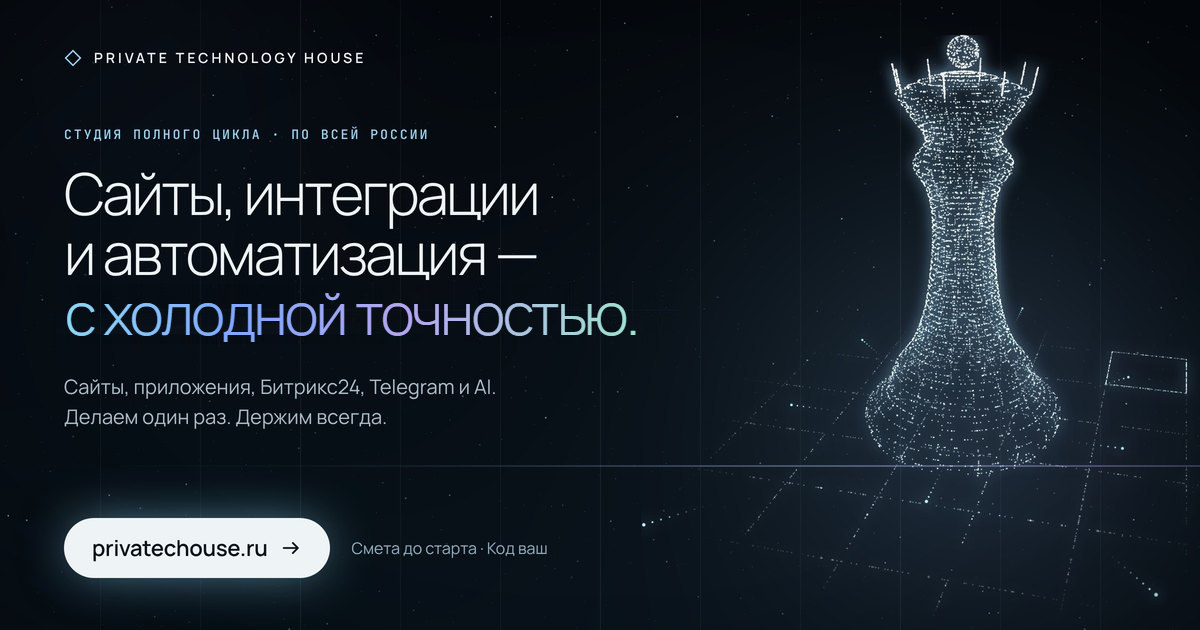
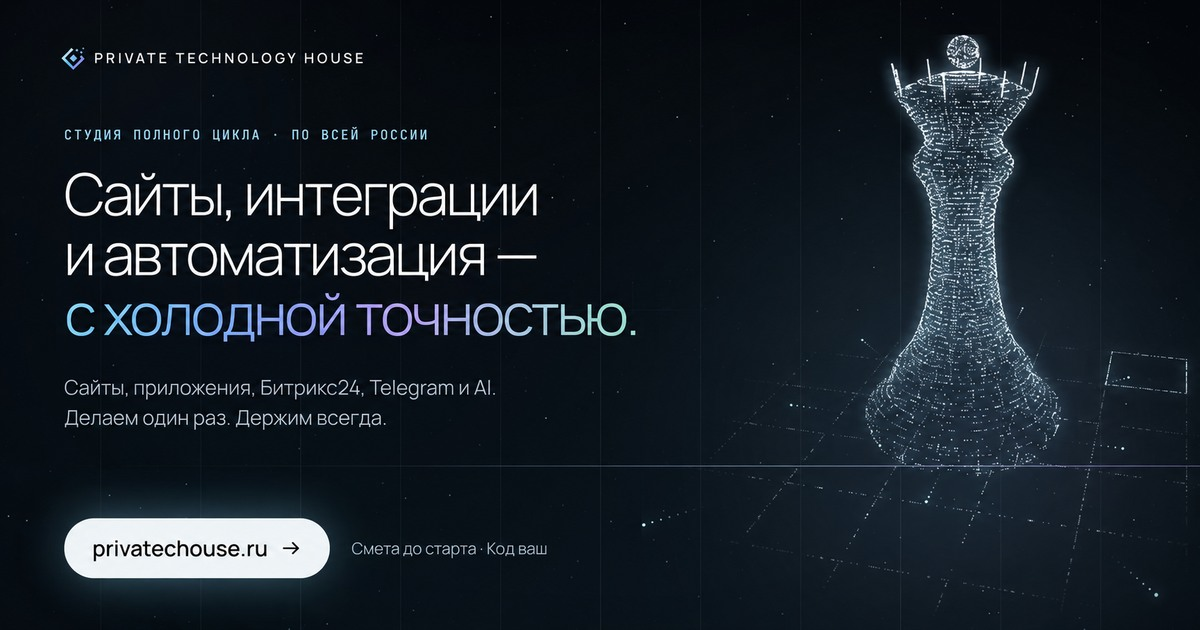
Единый знак студии в шапках и предпросмотре ссылки

diff --git a/services.html b/services.html
@@ -26,7 +26,7 @@
 <meta property="og:image:height" content="630">
 <meta property="og:locale" content="ru_RU">
 <meta name="twitter:card" content="summary_large_image">
-<link rel="stylesheet" href="assets/site.css?v=b2d90921">
+<link rel="stylesheet" href="assets/site.css?v=961dbc32">
 <noscript><style>.pt-boot .sec > *,.pt-boot .sec .wrap > *{opacity:1}.flow-win[role="img"]::after{content:attr(aria-label);position:absolute;inset:56px 28px 28px;display:flex;align-items:center;justify-content:center;text-align:center;font:500 13px/1.7 'JetBrains Mono','JetBrains fb',monospace;color:#8FAEC0}[data-mini-label]{opacity:1;left:50%;top:50%;bottom:auto;transform:translate(-50%,-50%)}.hero-obj::after{content:"[ " attr(aria-label) " ]";position:absolute;left:24px;right:24px;top:45%;text-align:center;font:500 13px/1.7 'JetBrains Mono','JetBrains fb',monospace;color:#8FAEC0}.hero-obj .nb,.hero-obj [data-ring],.hero-obj .ps{display:none!important}[data-faq][hidden]{display:block!important;position:static;visibility:visible;pointer-events:auto}[data-faq] .cp-scrim,[data-faq] .cp-bar,[data-faq] .cp-foot{display:none!important}[data-faq] .cp-sheet{position:static!important;width:auto!important;height:auto!important;max-height:none!important;transform:none!important;background:none!important;border:0!important;border-radius:0!important;box-shadow:none!important}[data-faq] .cp-sheet::before{display:none}[data-faq] .cp-body{overflow:visible!important;max-width:880px;margin:0 auto;padding:0 var(--pad)!important}.faq-link{display:none!important}</style></noscript>
 <script type="application/ld+json">{"@context": "https://schema.org", "@type": "BreadcrumbList", "itemListElement": [{"@type": "ListItem", "position": 1, "name": "Главная", "item": "https://privatechouse.ru/"}, {"@type": "ListItem", "position": 2, "name": "Что делаем", "item": "https://privatechouse.ru/services"}]}</script>
 <script type="application/ld+json">{"@context": "https://schema.org", "@type": "Organization", "@id": "https://privatechouse.ru/#org", "name": "Private Technology House", "url": "https://privatechouse.ru/", "email": "hello@privatechouse.ru", "sameAs": ["https://t.me/dragonborne0"], "areaServed": "RU", "hasOfferCatalog": {"@type": "OfferCatalog", "name": "Услуги", "itemListElement": [{"@type": "Offer", "itemOffered": {"@type": "Service", "name": "Сайты-презентации", "description": "Для компаний, которым важно, как их видят. Свой визуальный стиль, 3D и анимация."}}, {"@type": "Offer", "itemOffered": {"@type": "Service", "name": "Приложения", "description": "Android, iOS и Telegram: от интерфейса до публикации в магазинах. Связываем с сайтом и CRM."}}, {"@type": "Offer", "itemOffered": {"@type": "Service", "name": "Серверы", "description": "Настраиваем серверы компании, ставим бэкапы и мониторинг. Если что-то упало, находим причину и чиним."}}, {"@type": "Offer", "itemOffered": {"@type": "Service", "name": "Сопровождение сайта", "description": "Сайт работает на нашем хостинге. Вы пишете в Telegram, что поменять, мы меняем. Следим, чтобы сайт открывался, и обновляем его."}}, {"@type": "Offer", "itemOffered": {"@type": "Service", "name": "Автоматизация и интеграции", "description": "Связываем всё, где есть API: сайт, приложение, CRM, мессенджеры, маркетплейсы. Сценарии работают на нашем сервере, мы за ними следим."}}, {"@type": "Offer", "itemOffered": {"@type": "Service", "name": "AI-ассистенты", "description": "Агенты отвечают клиентам, ищут по документам компании и разбирают звонки."}}]}}</script>

diff --git a/en/services.html b/en/services.html
@@ -26,7 +26,7 @@
 <meta property="og:image:height" content="630">
 <meta property="og:locale" content="en_US"><meta content="ru_RU" property="og:locale:alternate">
 <meta name="twitter:card" content="summary_large_image">
-<link rel="stylesheet" href="/assets/site.css?v=b2d90921">
+<link rel="stylesheet" href="/assets/site.css?v=961dbc32">
 <noscript><style>.pt-boot .sec > *,.pt-boot .sec .wrap > *{opacity:1}.flow-win[role="img"]::after{content:attr(aria-label);position:absolute;inset:56px 28px 28px;display:flex;align-items:center;justify-content:center;text-align:center;font:500 13px/1.7 'JetBrains Mono','JetBrains fb',monospace;color:#8FAEC0}[data-mini-label]{opacity:1;left:50%;top:50%;bottom:auto;transform:translate(-50%,-50%)}.hero-obj::after{content:"[ " attr(aria-label) " ]";position:absolute;left:24px;right:24px;top:45%;text-align:center;font:500 13px/1.7 'JetBrains Mono','JetBrains fb',monospace;color:#8FAEC0}.hero-obj .nb,.hero-obj [data-ring],.hero-obj .ps{display:none!important}[data-faq][hidden]{display:block!important;position:static;visibility:visible;pointer-events:auto}[data-faq] .cp-scrim,[data-faq] .cp-bar,[data-faq] .cp-foot{display:none!important}[data-faq] .cp-sheet{position:static!important;width:auto!important;height:auto!important;max-height:none!important;transform:none!important;background:none!important;border:0!important;border-radius:0!important;box-shadow:none!important}[data-faq] .cp-sheet::before{display:none}[data-faq] .cp-body{overflow:visible!important;max-width:880px;margin:0 auto;padding:0 var(--pad)!important}.faq-link{display:none!important}</style></noscript>
 <script type="application/ld+json">{"@context":"https://schema.org","@type":"BreadcrumbList","itemListElement":[{"@type":"ListItem","position":1,"name":"Home","item":"https://privatechouse.ru/en/"},{"@type":"ListItem","position":2,"name":"What we do","item":"https://privatechouse.ru/en/services"}]}</script>
 <script type="application/ld+json">{"@context":"https://schema.org","@type":"Organization","@id":"https://privatechouse.ru/#org","name":"Private Technology House","url":"https://privatechouse.ru/","email":"hello@privatechouse.ru","sameAs":["https://t.me/dragonborne0"],"areaServed":"RU","hasOfferCatalog":{"@type":"OfferCatalog","name":"Services","itemListElement":[{"@type":"Offer","itemOffered":{"@type":"Service","name":"Presentation websites","description":"For companies that care how they are seen. Your own visual style, 3D and animation."}},{"@type":"Offer","itemOffered":{"@type":"Service","name":"Apps","description":"Android, iOS and Telegram: from interface to store publishing. We connect the app to your website and CRM."}},{"@type":"Offer","itemOffered":{"@type":"Service","name":"Servers","description":"We set up company servers, backups and monitoring. If something goes down, we find the cause and fix it."}},{"@type":"Offer","itemOffered":{"@type":"Service","name":"Website care","description":"The site runs on our hosting. You tell us in Telegram what to change, and we change it. We keep the site up and updated."}},{"@type":"Offer","itemOffered":{"@type":"Service","name":"Automation and integrations","description":"We connect anything with an API: website, app, CRM, messengers, marketplaces. The workflows run on our server, and we look after them."}},{"@type":"Offer","itemOffered":{"@type":"Service","name":"AI assistants","description":"Agents answer customers, search company documents and review calls."}}]}}</script>

diff --git a/care.html b/care.html
@@ -26,7 +26,7 @@
 <meta property="og:image:height" content="630">
 <meta property="og:locale" content="ru_RU">
 <meta name="twitter:card" content="summary_large_image">
-<link rel="stylesheet" href="assets/site.css?v=b2d90921">
+<link rel="stylesheet" href="assets/site.css?v=961dbc32">
 <noscript><style>.pt-boot .sec > *,.pt-boot .sec .wrap > *{opacity:1}.flow-win[role="img"]::after{content:attr(aria-label);position:absolute;inset:56px 28px 28px;display:flex;align-items:center;justify-content:center;text-align:center;font:500 13px/1.7 'JetBrains Mono','JetBrains fb',monospace;color:#8FAEC0}[data-mini-label]{opacity:1;left:50%;top:50%;bottom:auto;transform:translate(-50%,-50%)}.hero-obj::after{content:"[ " attr(aria-label) " ]";position:absolute;left:24px;right:24px;top:45%;text-align:center;font:500 13px/1.7 'JetBrains Mono','JetBrains fb',monospace;color:#8FAEC0}.hero-obj .nb,.hero-obj [data-ring],.hero-obj .ps{display:none!important}[data-faq][hidden]{display:block!important;position:static;visibility:visible;pointer-events:auto}[data-faq] .cp-scrim,[data-faq] .cp-bar,[data-faq] .cp-foot{display:none!important}[data-faq] .cp-sheet{position:static!important;width:auto!important;height:auto!important;max-height:none!important;transform:none!important;background:none!important;border:0!important;border-radius:0!important;box-shadow:none!important}[data-faq] .cp-sheet::before{display:none}[data-faq] .cp-body{overflow:visible!important;max-width:880px;margin:0 auto;padding:0 var(--pad)!important}.faq-link{display:none!important}</style></noscript>
 <script type="application/ld+json">{"@context": "https://schema.org", "@type": "BreadcrumbList", "itemListElement": [{"@type": "ListItem", "position": 1, "name": "Главная", "item": "https://privatechouse.ru/"}, {"@type": "ListItem", "position": 2, "name": "Что делаем", "item": "https://privatechouse.ru/services"}, {"@type": "ListItem", "position": 3, "name": "Сопровождение сайта", "item": "https://privatechouse.ru/care"}]}</script>
 <script type="application/ld+json">{"@context": "https://schema.org", "@type": "Service", "name": "Сопровождение сайта", "description": "Сайт на нашем хостинге, российские проекты — на серверах в России. SSL и домен, мониторинг, бэкапы, правки по сообщению в Telegram, 152-ФЗ. Фиксированный платёж, от 10 000 ₽ в месяц.", "url": "https://privatechouse.ru/care", "provider": {"@id": "https://privatechouse.ru/#org"}, "areaServed": "RU", "offers": {"@type": "Offer", "priceCurrency": "RUB", "priceSpecification": {"@type": "UnitPriceSpecification", "minPrice": 10000, "priceCurrency": "RUB", "unitCode": "MON", "unitText": "месяц"}}}</script>

diff --git a/bitrix24.html b/bitrix24.html
@@ -26,7 +26,7 @@
 <meta property="og:image:height" content="630">
 <meta property="og:locale" content="ru_RU">
 <meta name="twitter:card" content="summary_large_image">
-<link rel="stylesheet" href="assets/site.css?v=b2d90921">
+<link rel="stylesheet" href="assets/site.css?v=961dbc32">
 <noscript><style>.pt-boot .sec > *,.pt-boot .sec .wrap > *{opacity:1}.flow-win[role="img"]::after{content:attr(aria-label);position:absolute;inset:56px 28px 28px;display:flex;align-items:center;justify-content:center;text-align:center;font:500 13px/1.7 'JetBrains Mono','JetBrains fb',monospace;color:#8FAEC0}[data-mini-label]{opacity:1;left:50%;top:50%;bottom:auto;transform:translate(-50%,-50%)}.hero-obj::after{content:"[ " attr(aria-label) " ]";position:absolute;left:24px;right:24px;top:45%;text-align:center;font:500 13px/1.7 'JetBrains Mono','JetBrains fb',monospace;color:#8FAEC0}.hero-obj .nb,.hero-obj [data-ring],.hero-obj .ps{display:none!important}[data-faq][hidden]{display:block!important;position:static;visibility:visible;pointer-events:auto}[data-faq] .cp-scrim,[data-faq] .cp-bar,[data-faq] .cp-foot{display:none!important}[data-faq] .cp-sheet{position:static!important;width:auto!important;height:auto!important;max-height:none!important;transform:none!important;background:none!important;border:0!important;border-radius:0!important;box-shadow:none!important}[data-faq] .cp-sheet::before{display:none}[data-faq] .cp-body{overflow:visible!important;max-width:880px;margin:0 auto;padding:0 var(--pad)!important}.faq-link{display:none!important}</style></noscript>
 <script type="application/ld+json">{"@context": "https://schema.org", "@type": "BreadcrumbList", "itemListElement": [{"@type": "ListItem", "position": 1, "name": "Главная", "item": "https://privatechouse.ru/"}, {"@type": "ListItem", "position": 2, "name": "Что делаем", "item": "https://privatechouse.ru/services"}, {"@type": "ListItem", "position": 3, "name": "Интеграции", "item": "https://privatechouse.ru/bitrix24"}]}</script>
 <script type="application/ld+json">{"@context": "https://schema.org", "@type": "Service", "name": "Интеграции с Битрикс24", "description": "Заявки с сайта и из Telegram — сразу в Битрикс24, задачи голосом, утренний разбор задач с выводами, разбор каждого звонка в карточке клиента. Настраиваем под ваш процесс, от 5 000 ₽ в месяц.", "url": "https://privatechouse.ru/bitrix24", "provider": {"@id": "https://privatechouse.ru/#org"}, "areaServed": "RU", "offers": {"@type": "Offer", "priceCurrency": "RUB", "priceSpecification": {"@type": "UnitPriceSpecification", "minPrice": 5000, "priceCurrency": "RUB", "unitCode": "MON"}}}</script>

diff --git a/sites.html b/sites.html
@@ -26,7 +26,7 @@
 <meta property="og:image:height" content="630">
 <meta property="og:locale" content="ru_RU">
 <meta name="twitter:card" content="summary_large_image">
-<link rel="stylesheet" href="assets/site.css?v=b2d90921">
+<link rel="stylesheet" href="assets/site.css?v=961dbc32">
 <noscript><style>.pt-boot .sec > *,.pt-boot .sec .wrap > *{opacity:1}.flow-win[role="img"]::after{content:attr(aria-label);position:absolute;inset:56px 28px 28px;display:flex;align-items:center;justify-content:center;text-align:center;font:500 13px/1.7 'JetBrains Mono','JetBrains fb',monospace;color:#8FAEC0}[data-mini-label]{opacity:1;left:50%;top:50%;bottom:auto;transform:translate(-50%,-50%)}.hero-obj::after{content:"[ " attr(aria-label) " ]";position:absolute;left:24px;right:24px;top:45%;text-align:center;font:500 13px/1.7 'JetBrains Mono','JetBrains fb',monospace;color:#8FAEC0}.hero-obj .nb,.hero-obj [data-ring],.hero-obj .ps{display:none!important}[data-faq][hidden]{display:block!important;position:static;visibility:visible;pointer-events:auto}[data-faq] .cp-scrim,[data-faq] .cp-bar,[data-faq] .cp-foot{display:none!important}[data-faq] .cp-sheet{position:static!important;width:auto!important;height:auto!important;max-height:none!important;transform:none!important;background:none!important;border:0!important;border-radius:0!important;box-shadow:none!important}[data-faq] .cp-sheet::before{display:none}[data-faq] .cp-body{overflow:visible!important;max-width:880px;margin:0 auto;padding:0 var(--pad)!important}.faq-link{display:none!important}</style></noscript>
 <script type="application/ld+json">{"@context": "https://schema.org", "@type": "BreadcrumbList", "itemListElement": [{"@type": "ListItem", "position": 1, "name": "Главная", "item": "https://privatechouse.ru/"}, {"@type": "ListItem", "position": 2, "name": "Что делаем", "item": "https://privatechouse.ru/services"}, {"@type": "ListItem", "position": 3, "name": "Сайты-презентации", "item": "https://privatechouse.ru/sites"}]}</script>
 <script type="application/ld+json">{"@context": "https://schema.org", "@type": "Service", "name": "Сайт-презентация", "description": "Сайт-презентация со своим визуальным стилем, 3D и анимацией: для бренда, жилого комплекса, коттеджного посёлка, отеля или нового продукта. От 120 000 ₽, от 2 недель. Редизайн — от 85 000 ₽.", "url": "https://privatechouse.ru/sites", "provider": {"@id": "https://privatechouse.ru/#org"}, "areaServed": "RU", "offers": {"@type": "Offer", "priceCurrency": "RUB", "priceSpecification": {"@type": "PriceSpecification", "minPrice": 120000, "priceCurrency": "RUB"}}}</script>

diff --git a/apps.html b/apps.html
@@ -26,7 +26,7 @@
 <meta property="og:image:height" content="630">
 <meta property="og:locale" content="ru_RU">
 <meta name="twitter:card" content="summary_large_image">
-<link rel="stylesheet" href="assets/site.css?v=b2d90921">
+<link rel="stylesheet" href="assets/site.css?v=961dbc32">
 <noscript><style>.pt-boot .sec > *,.pt-boot .sec .wrap > *{opacity:1}.flow-win[role="img"]::after{content:attr(aria-label);position:absolute;inset:56px 28px 28px;display:flex;align-items:center;justify-content:center;text-align:center;font:500 13px/1.7 'JetBrains Mono','JetBrains fb',monospace;color:#8FAEC0}[data-mini-label]{opacity:1;left:50%;top:50%;bottom:auto;transform:translate(-50%,-50%)}.hero-obj::after{content:"[ " attr(aria-label) " ]";position:absolute;left:24px;right:24px;top:45%;text-align:center;font:500 13px/1.7 'JetBrains Mono','JetBrains fb',monospace;color:#8FAEC0}.hero-obj .nb,.hero-obj [data-ring],.hero-obj .ps{display:none!important}[data-faq][hidden]{display:block!important;position:static;visibility:visible;pointer-events:auto}[data-faq] .cp-scrim,[data-faq] .cp-bar,[data-faq] .cp-foot{display:none!important}[data-faq] .cp-sheet{position:static!important;width:auto!important;height:auto!important;max-height:none!important;transform:none!important;background:none!important;border:0!important;border-radius:0!important;box-shadow:none!important}[data-faq] .cp-sheet::before{display:none}[data-faq] .cp-body{overflow:visible!important;max-width:880px;margin:0 auto;padding:0 var(--pad)!important}.faq-link{display:none!important}</style></noscript>
 <script type="application/ld+json">{"@context": "https://schema.org", "@type": "BreadcrumbList", "itemListElement": [{"@type": "ListItem", "position": 1, "name": "Главная", "item": "https://privatechouse.ru/"}, {"@type": "ListItem", "position": 2, "name": "Что делаем", "item": "https://privatechouse.ru/services"}, {"@type": "ListItem", "position": 3, "name": "Приложения", "item": "https://privatechouse.ru/apps"}]}</script>
 <script type="application/ld+json">{"@context": "https://schema.org", "@type": "Service", "name": "Разработка мобильных приложений и Telegram Mini App", "description": "Мобильное приложение для Android и iOS из одной кодовой базы, Telegram Mini App для каталога, записи и заказов. Публикация в Google Play, RuStore и App Store, связь с Битрикс24. От 150 000 ₽.", "url": "https://privatechouse.ru/apps", "provider": {"@id": "https://privatechouse.ru/#org"}, "areaServed": "RU", "offers": {"@type": "Offer", "priceCurrency": "RUB", "priceSpecification": {"@type": "PriceSpecification", "minPrice": 150000, "priceCurrency": "RUB"}}}</script>

diff --git a/ai.html b/ai.html
@@ -26,7 +26,7 @@
 <meta property="og:image:height" content="630">
 <meta property="og:locale" content="ru_RU">
 <meta name="twitter:card" content="summary_large_image">
-<link rel="stylesheet" href="assets/site.css?v=b2d90921">
+<link rel="stylesheet" href="assets/site.css?v=961dbc32">
 <noscript><style>.pt-boot .sec > *,.pt-boot .sec .wrap > *{opacity:1}.flow-win[role="img"]::after{content:attr(aria-label);position:absolute;inset:56px 28px 28px;display:flex;align-items:center;justify-content:center;text-align:center;font:500 13px/1.7 'JetBrains Mono','JetBrains fb',monospace;color:#8FAEC0}[data-mini-label]{opacity:1;left:50%;top:50%;bottom:auto;transform:translate(-50%,-50%)}.hero-obj::after{content:"[ " attr(aria-label) " ]";position:absolute;left:24px;right:24px;top:45%;text-align:center;font:500 13px/1.7 'JetBrains Mono','JetBrains fb',monospace;color:#8FAEC0}.hero-obj .nb,.hero-obj [data-ring],.hero-obj .ps{display:none!important}[data-faq][hidden]{display:block!important;position:static;visibility:visible;pointer-events:auto}[data-faq] .cp-scrim,[data-faq] .cp-bar,[data-faq] .cp-foot{display:none!important}[data-faq] .cp-sheet{position:static!important;width:auto!important;height:auto!important;max-height:none!important;transform:none!important;background:none!important;border:0!important;border-radius:0!important;box-shadow:none!important}[data-faq] .cp-sheet::before{display:none}[data-faq] .cp-body{overflow:visible!important;max-width:880px;margin:0 auto;padding:0 var(--pad)!important}.faq-link{display:none!important}</style></noscript>
 <script type="application/ld+json">{"@context": "https://schema.org", "@type": "BreadcrumbList", "itemListElement": [{"@type": "ListItem", "position": 1, "name": "Главная", "item": "https://privatechouse.ru/"}, {"@type": "ListItem", "position": 2, "name": "Что делаем", "item": "https://privatechouse.ru/services"}, {"@type": "ListItem", "position": 3, "name": "AI-ассистенты", "item": "https://privatechouse.ru/ai"}]}</script>
 <script type="application/ld+json">{"@context": "https://schema.org", "@type": "Service", "name": "AI-ассистенты", "description": "AI-помощник для каждого отдела, который отвечает по вашим регламентам и прайсам. Разбор каждого звонка, ответы покупателям на Авито, ответы на отзывы Wildberries и Ozon. От 5 000 ₽ в месяц.", "url": "https://privatechouse.ru/ai", "provider": {"@id": "https://privatechouse.ru/#org"}, "areaServed": "RU", "offers": {"@type": "Offer", "priceCurrency": "RUB", "priceSpecification": {"@type": "UnitPriceSpecification", "minPrice": 5000, "priceCurrency": "RUB", "unitCode": "MON"}}}</script>

diff --git a/servers.html b/servers.html
@@ -26,7 +26,7 @@
 <meta property="og:image:height" content="630">
 <meta property="og:locale" content="ru_RU">
 <meta name="twitter:card" content="summary_large_image">
-<link rel="stylesheet" href="assets/site.css?v=b2d90921">
+<link rel="stylesheet" href="assets/site.css?v=961dbc32">
 <noscript><style>.pt-boot .sec > *,.pt-boot .sec .wrap > *{opacity:1}.flow-win[role="img"]::after{content:attr(aria-label);position:absolute;inset:56px 28px 28px;display:flex;align-items:center;justify-content:center;text-align:center;font:500 13px/1.7 'JetBrains Mono','JetBrains fb',monospace;color:#8FAEC0}[data-mini-label]{opacity:1;left:50%;top:50%;bottom:auto;transform:translate(-50%,-50%)}.hero-obj::after{content:"[ " attr(aria-label) " ]";position:absolute;left:24px;right:24px;top:45%;text-align:center;font:500 13px/1.7 'JetBrains Mono','JetBrains fb',monospace;color:#8FAEC0}.hero-obj .nb,.hero-obj [data-ring],.hero-obj .ps{display:none!important}[data-faq][hidden]{display:block!important;position:static;visibility:visible;pointer-events:auto}[data-faq] .cp-scrim,[data-faq] .cp-bar,[data-faq] .cp-foot{display:none!important}[data-faq] .cp-sheet{position:static!important;width:auto!important;height:auto!important;max-height:none!important;transform:none!important;background:none!important;border:0!important;border-radius:0!important;box-shadow:none!important}[data-faq] .cp-sheet::before{display:none}[data-faq] .cp-body{overflow:visible!important;max-width:880px;margin:0 auto;padding:0 var(--pad)!important}.faq-link{display:none!important}</style></noscript>
 <script type="application/ld+json">{"@context": "https://schema.org", "@type": "BreadcrumbList", "itemListElement": [{"@type": "ListItem", "position": 1, "name": "Главная", "item": "https://privatechouse.ru/"}, {"@type": "ListItem", "position": 2, "name": "Что делаем", "item": "https://privatechouse.ru/services"}, {"@type": "ListItem", "position": 3, "name": "Серверы", "item": "https://privatechouse.ru/servers"}]}</script>
 <script type="application/ld+json">{"@context": "https://schema.org", "@type": "Service", "name": "Настройка серверов, n8n и LibreChat", "description": "Сервер под ключ: Docker, домены и SSL, бэкапы и мониторинг, переезд без потери данных, разбор аварий, защита и ускорение. n8n или LibreChat под ключ — от 15 000 ₽. Задачи — от 5 000 ₽.", "url": "https://privatechouse.ru/servers", "provider": {"@id": "https://privatechouse.ru/#org"}, "areaServed": "RU", "offers": {"@type": "Offer", "priceCurrency": "RUB", "priceSpecification": {"@type": "PriceSpecification", "minPrice": 5000, "priceCurrency": "RUB"}}}</script>

diff --git a/en/bitrix24.html b/en/bitrix24.html
@@ -26,7 +26,7 @@
 <meta property="og:image:height" content="630">
 <meta property="og:locale" content="en_US"><meta content="ru_RU" property="og:locale:alternate">
 <meta name="twitter:card" content="summary_large_image">
-<link rel="stylesheet" href="/assets/site.css?v=b2d90921">
+<link rel="stylesheet" href="/assets/site.css?v=961dbc32">
 <noscript><style>.pt-boot .sec > *,.pt-boot .sec .wrap > *{opacity:1}.flow-win[role="img"]::after{content:attr(aria-label);position:absolute;inset:56px 28px 28px;display:flex;align-items:center;justify-content:center;text-align:center;font:500 13px/1.7 'JetBrains Mono','JetBrains fb',monospace;color:#8FAEC0}[data-mini-label]{opacity:1;left:50%;top:50%;bottom:auto;transform:translate(-50%,-50%)}.hero-obj::after{content:"[ " attr(aria-label) " ]";position:absolute;left:24px;right:24px;top:45%;text-align:center;font:500 13px/1.7 'JetBrains Mono','JetBrains fb',monospace;color:#8FAEC0}.hero-obj .nb,.hero-obj [data-ring],.hero-obj .ps{display:none!important}[data-faq][hidden]{display:block!important;position:static;visibility:visible;pointer-events:auto}[data-faq] .cp-scrim,[data-faq] .cp-bar,[data-faq] .cp-foot{display:none!important}[data-faq] .cp-sheet{position:static!important;width:auto!important;height:auto!important;max-height:none!important;transform:none!important;background:none!important;border:0!important;border-radius:0!important;box-shadow:none!important}[data-faq] .cp-sheet::before{display:none}[data-faq] .cp-body{overflow:visible!important;max-width:880px;margin:0 auto;padding:0 var(--pad)!important}.faq-link{display:none!important}</style></noscript>
 <script type="application/ld+json">{"@context":"https://schema.org","@type":"BreadcrumbList","itemListElement":[{"@type":"ListItem","position":1,"name":"Home","item":"https://privatechouse.ru/en/"},{"@type":"ListItem","position":2,"name":"What we do","item":"https://privatechouse.ru/en/services"},{"@type":"ListItem","position":3,"name":"Integrations","item":"https://privatechouse.ru/en/bitrix24"}]}</script>
 <script type="application/ld+json">{"@context":"https://schema.org","@type":"Service","name":"Bitrix24 integrations","description":"Leads from your website and Telegram go straight into Bitrix24, tasks by voice, a morning task review with conclusions, a review of every call in the client card. Set up for your process, from 5,000 ₽ a month.","url":"https://privatechouse.ru/en/bitrix24","provider":{"@id":"https://privatechouse.ru/#org"},"areaServed":"RU","offers":{"@type":"Offer","priceCurrency":"RUB","priceSpecification":{"@type":"UnitPriceSpecification","minPrice":5000,"priceCurrency":"RUB","unitCode":"MON"}}}</script>

diff --git a/en/care.html b/en/care.html
@@ -26,7 +26,7 @@
 <meta property="og:image:height" content="630">
 <meta property="og:locale" content="en_US"><meta content="ru_RU" property="og:locale:alternate">
 <meta name="twitter:card" content="summary_large_image">
-<link rel="stylesheet" href="/assets/site.css?v=b2d90921">
+<link rel="stylesheet" href="/assets/site.css?v=961dbc32">
 <noscript><style>.pt-boot .sec > *,.pt-boot .sec .wrap > *{opacity:1}.flow-win[role="img"]::after{content:attr(aria-label);position:absolute;inset:56px 28px 28px;display:flex;align-items:center;justify-content:center;text-align:center;font:500 13px/1.7 'JetBrains Mono','JetBrains fb',monospace;color:#8FAEC0}[data-mini-label]{opacity:1;left:50%;top:50%;bottom:auto;transform:translate(-50%,-50%)}.hero-obj::after{content:"[ " attr(aria-label) " ]";position:absolute;left:24px;right:24px;top:45%;text-align:center;font:500 13px/1.7 'JetBrains Mono','JetBrains fb',monospace;color:#8FAEC0}.hero-obj .nb,.hero-obj [data-ring],.hero-obj .ps{display:none!important}[data-faq][hidden]{display:block!important;position:static;visibility:visible;pointer-events:auto}[data-faq] .cp-scrim,[data-faq] .cp-bar,[data-faq] .cp-foot{display:none!important}[data-faq] .cp-sheet{position:static!important;width:auto!important;height:auto!important;max-height:none!important;transform:none!important;background:none!important;border:0!important;border-radius:0!important;box-shadow:none!important}[data-faq] .cp-sheet::before{display:none}[data-faq] .cp-body{overflow:visible!important;max-width:880px;margin:0 auto;padding:0 var(--pad)!important}.faq-link{display:none!important}</style></noscript>
 <script type="application/ld+json">{"@context":"https://schema.org","@type":"BreadcrumbList","itemListElement":[{"@type":"ListItem","position":1,"name":"Home","item":"https://privatechouse.ru/en/"},{"@type":"ListItem","position":2,"name":"What we do","item":"https://privatechouse.ru/en/services"},{"@type":"ListItem","position":3,"name":"Website care","item":"https://privatechouse.ru/en/care"}]}</script>
 <script type="application/ld+json">{"@context":"https://schema.org","@type":"Service","name":"Website care","description":"Your website on our hosting, Russian projects on servers in Russia. SSL and domain, monitoring, backups, edits on request in Telegram, Federal Law 152-FZ. A fixed payment, from 10,000 ₽ a month.","url":"https://privatechouse.ru/en/care","provider":{"@id":"https://privatechouse.ru/#org"},"areaServed":"RU","offers":{"@type":"Offer","priceCurrency":"RUB","priceSpecification":{"@type":"UnitPriceSpecification","minPrice":10000,"priceCurrency":"RUB","unitCode":"MON","unitText":"month"}}}</script>

diff --git a/en/apps.html b/en/apps.html
@@ -26,7 +26,7 @@
 <meta property="og:image:height" content="630">
 <meta property="og:locale" content="en_US"><meta content="ru_RU" property="og:locale:alternate">
 <meta name="twitter:card" content="summary_large_image">
-<link rel="stylesheet" href="/assets/site.css?v=b2d90921">
+<link rel="stylesheet" href="/assets/site.css?v=961dbc32">
 <noscript><style>.pt-boot .sec > *,.pt-boot .sec .wrap > *{opacity:1}.flow-win[role="img"]::after{content:attr(aria-label);position:absolute;inset:56px 28px 28px;display:flex;align-items:center;justify-content:center;text-align:center;font:500 13px/1.7 'JetBrains Mono','JetBrains fb',monospace;color:#8FAEC0}[data-mini-label]{opacity:1;left:50%;top:50%;bottom:auto;transform:translate(-50%,-50%)}.hero-obj::after{content:"[ " attr(aria-label) " ]";position:absolute;left:24px;right:24px;top:45%;text-align:center;font:500 13px/1.7 'JetBrains Mono','JetBrains fb',monospace;color:#8FAEC0}.hero-obj .nb,.hero-obj [data-ring],.hero-obj .ps{display:none!important}[data-faq][hidden]{display:block!important;position:static;visibility:visible;pointer-events:auto}[data-faq] .cp-scrim,[data-faq] .cp-bar,[data-faq] .cp-foot{display:none!important}[data-faq] .cp-sheet{position:static!important;width:auto!important;height:auto!important;max-height:none!important;transform:none!important;background:none!important;border:0!important;border-radius:0!important;box-shadow:none!important}[data-faq] .cp-sheet::before{display:none}[data-faq] .cp-body{overflow:visible!important;max-width:880px;margin:0 auto;padding:0 var(--pad)!important}.faq-link{display:none!important}</style></noscript>
 <script type="application/ld+json">{"@context":"https://schema.org","@type":"BreadcrumbList","itemListElement":[{"@type":"ListItem","position":1,"name":"Home","item":"https://privatechouse.ru/en/"},{"@type":"ListItem","position":2,"name":"What we do","item":"https://privatechouse.ru/en/services"},{"@type":"ListItem","position":3,"name":"Apps","item":"https://privatechouse.ru/en/apps"}]}</script>
 <script type="application/ld+json">{"@context":"https://schema.org","@type":"Service","name":"Mobile app and Telegram Mini App development","description":"A mobile app for Android and iOS from a single codebase, a Telegram Mini App for catalogs, bookings and orders. Publishing to Google Play, RuStore and the App Store, connection with Bitrix24. From 150,000 ₽.","url":"https://privatechouse.ru/en/apps","provider":{"@id":"https://privatechouse.ru/#org"},"areaServed":"RU","offers":{"@type":"Offer","priceCurrency":"RUB","priceSpecification":{"@type":"PriceSpecification","minPrice":150000,"priceCurrency":"RUB"}}}</script>

diff --git a/en/ai.html b/en/ai.html
@@ -26,7 +26,7 @@
 <meta property="og:image:height" content="630">
 <meta property="og:locale" content="en_US"><meta content="ru_RU" property="og:locale:alternate">
 <meta name="twitter:card" content="summary_large_image">
-<link rel="stylesheet" href="/assets/site.css?v=b2d90921">
+<link rel="stylesheet" href="/assets/site.css?v=961dbc32">
 <noscript><style>.pt-boot .sec > *,.pt-boot .sec .wrap > *{opacity:1}.flow-win[role="img"]::after{content:attr(aria-label);position:absolute;inset:56px 28px 28px;display:flex;align-items:center;justify-content:center;text-align:center;font:500 13px/1.7 'JetBrains Mono','JetBrains fb',monospace;color:#8FAEC0}[data-mini-label]{opacity:1;left:50%;top:50%;bottom:auto;transform:translate(-50%,-50%)}.hero-obj::after{content:"[ " attr(aria-label) " ]";position:absolute;left:24px;right:24px;top:45%;text-align:center;font:500 13px/1.7 'JetBrains Mono','JetBrains fb',monospace;color:#8FAEC0}.hero-obj .nb,.hero-obj [data-ring],.hero-obj .ps{display:none!important}[data-faq][hidden]{display:block!important;position:static;visibility:visible;pointer-events:auto}[data-faq] .cp-scrim,[data-faq] .cp-bar,[data-faq] .cp-foot{display:none!important}[data-faq] .cp-sheet{position:static!important;width:auto!important;height:auto!important;max-height:none!important;transform:none!important;background:none!important;border:0!important;border-radius:0!important;box-shadow:none!important}[data-faq] .cp-sheet::before{display:none}[data-faq] .cp-body{overflow:visible!important;max-width:880px;margin:0 auto;padding:0 var(--pad)!important}.faq-link{display:none!important}</style></noscript>
 <script type="application/ld+json">{"@context":"https://schema.org","@type":"BreadcrumbList","itemListElement":[{"@type":"ListItem","position":1,"name":"Home","item":"https://privatechouse.ru/en/"},{"@type":"ListItem","position":2,"name":"What we do","item":"https://privatechouse.ru/en/services"},{"@type":"ListItem","position":3,"name":"AI assistants","item":"https://privatechouse.ru/en/ai"}]}</script>
 <script type="application/ld+json">{"@context":"https://schema.org","@type":"Service","name":"AI assistants","description":"An AI assistant for every department that answers from your own policies and price lists. A review of every call, replies to buyers on Avito, replies to Wildberries and Ozon reviews. From 5,000 ₽ a month.","url":"https://privatechouse.ru/en/ai","provider":{"@id":"https://privatechouse.ru/#org"},"areaServed":"RU","offers":{"@type":"Offer","priceCurrency":"RUB","priceSpecification":{"@type":"UnitPriceSpecification","minPrice":5000,"priceCurrency":"RUB","unitCode":"MON"}}}</script>
